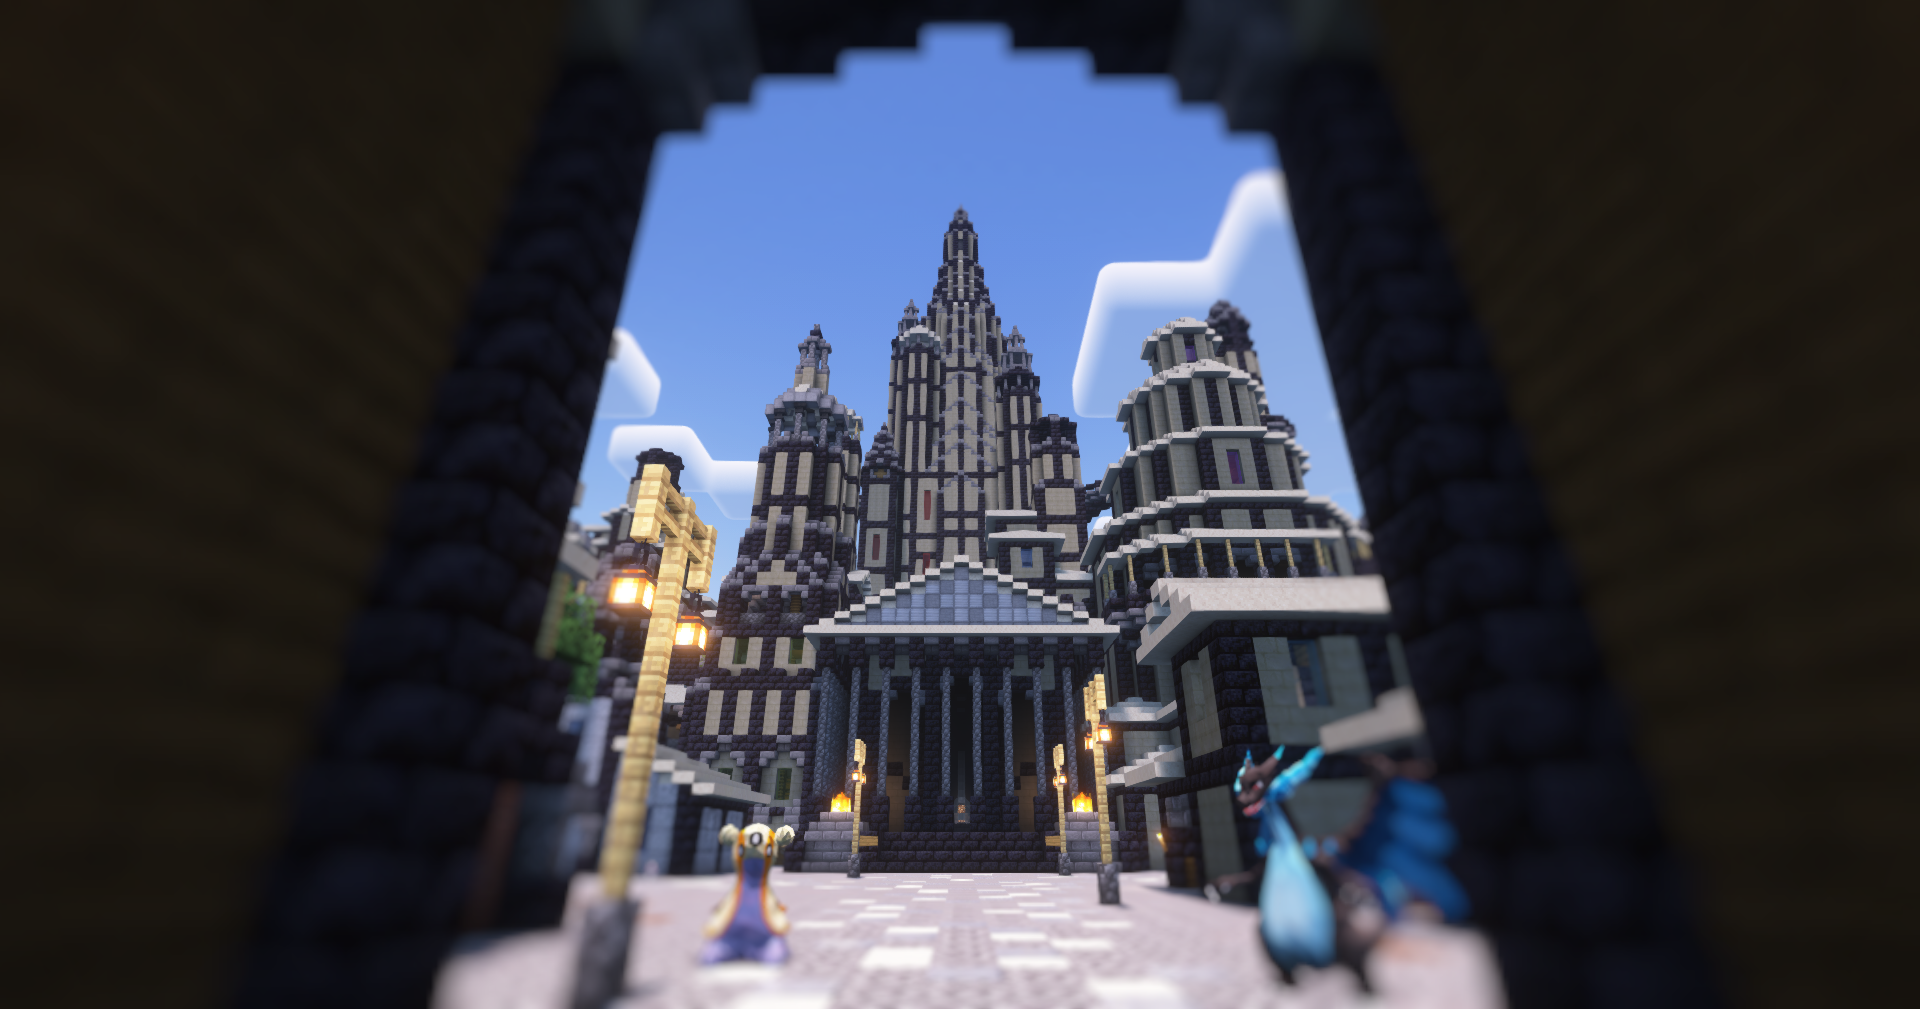
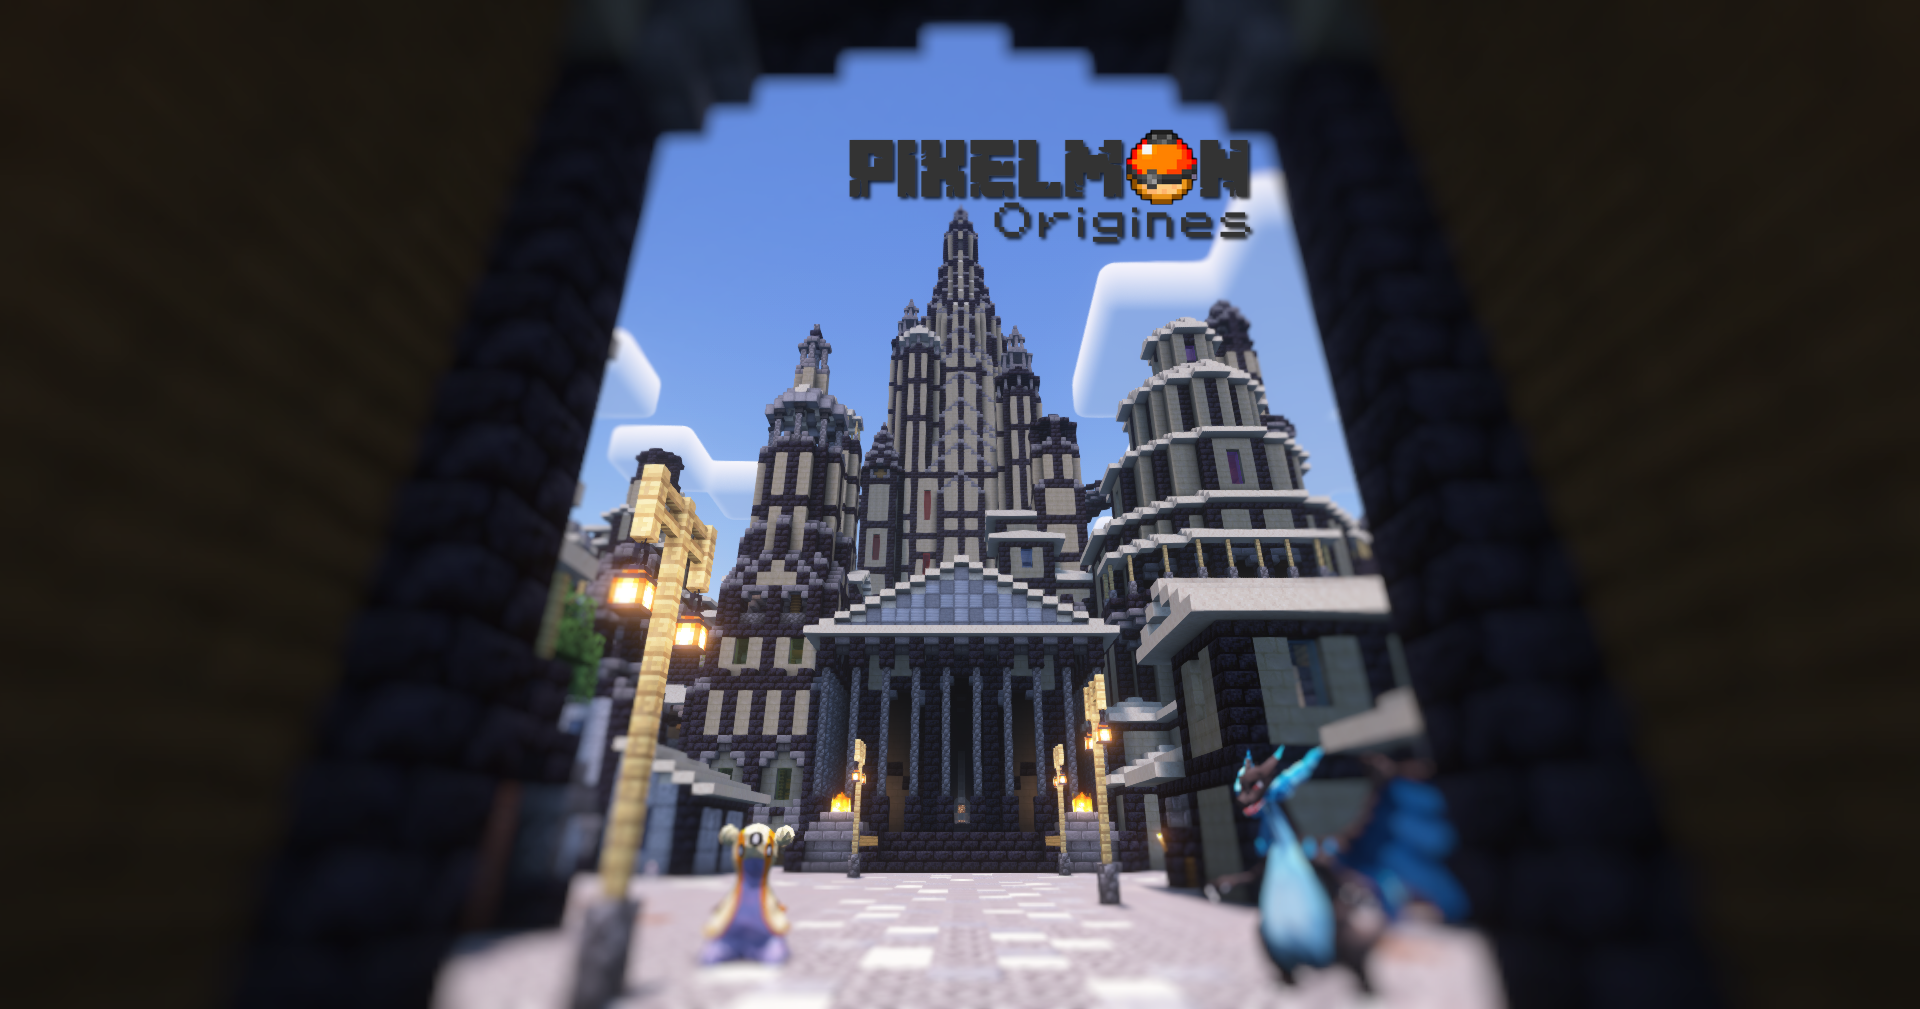
1.4.3

Changed region(s): [[0.4375, 0.1229, 0.6562, 0.2458]]

diff --git a/src/assets/css/panels/home.css b/src/assets/css/panels/home.css
@@ -145,27 +145,6 @@
     transition: color .2s, filter .2s;
 }
 
-
-.discord-btn {
-    position: absolute;
-    top: 15px;
-    right: 85px;
-    width: 60px;
-    height: 40px;
-    background: url("../../images/discord-btn.png") no-repeat center;
-    background-size: contain;
-}
-
-.discord-btn {
-    color: rgba(245, 245, 245, 0);
-    text-decoration: none;
-}
-
-.discord-btn:hover {
-    color: rgba(245, 245, 245, 0);
-    text-decoration: none;
-} 
-
 .title {
     position: absolute;
     font: normal normal bold 27px/40px Poppins;

diff --git a/src/assets/js/index.js b/src/assets/js/index.js
@@ -22,9 +22,7 @@ class Splash {
 
     async startAnimation() {
         let splashes = [
-            { "message": "Je... vie...", "author": "Luuxis" },
-            { "message": "Salut je suis du code.", "author": "Luuxis" },
-            { "message": "Linux n' ai pas un os, mais un kernel.", "author": "Luuxis" }
+            { "message": "Pixelmon-Origines", "author": "Glopel" }
         ]
         let splash = splashes[Math.floor(Math.random() * splashes.length)];
         this.splashMessage.textContent = splash.message;

diff --git a/src/assets/css/index.css b/src/assets/css/index.css
@@ -1,6 +1,6 @@
 @import "font.css";
 body {
-    background-color: #000000;
+    background: linear-gradient(#00000010, #00000010), url("../images/background/light.png") black no-repeat center center scroll;
     font-family: "Poppins";
     letter-spacing: 0px;
     -webkit-app-region: drag;

diff --git a/src/launcher.html b/src/launcher.html
@@ -20,7 +20,7 @@
                     <span></span>
                 </div>
             </div>
-            <div class="preload-title">Chargement en cours!...</div>
+            <div class="preload-title">Chargement en cours...</div>
         </div>
 
         <div class="panels"></div>

diff --git a/src/assets/css/launcher.css b/src/assets/css/launcher.css
@@ -12,6 +12,7 @@ body {
     padding: 0;
     user-select: none;
     background: linear-gradient(#00000010, #00000010), url("../images/background/light.png") black no-repeat center center scroll;
+    background-size: cover;
 }
 
 img {

diff --git a/src/panels/home.html b/src/panels/home.html
@@ -11,9 +11,6 @@
             </div>
         </div>
     </div>
-
-    <a class="discord-btn" href="https:" target="_new">
-    </a>
     
     <div class="body-home">
         <div class="news-list"></div>
